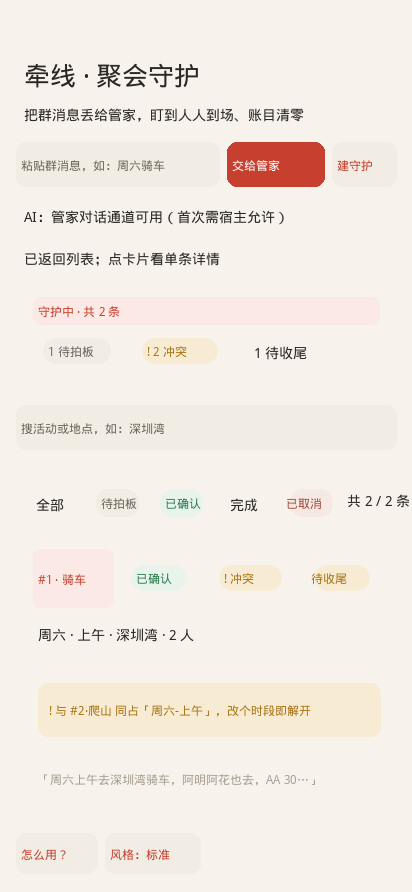
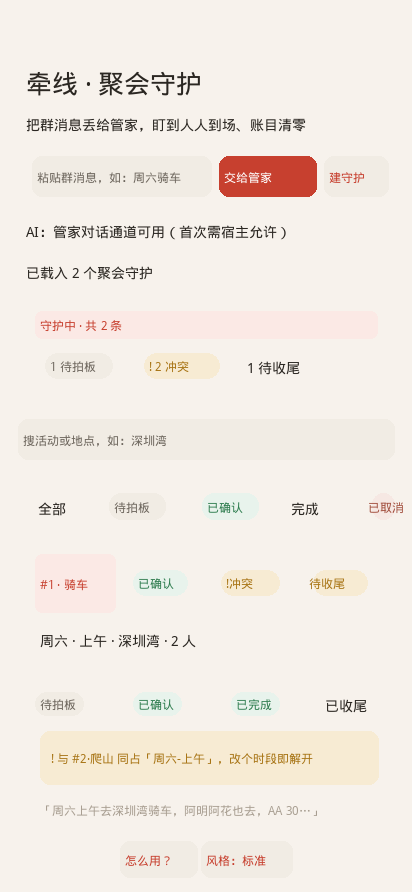
v0.9.2：UI 第二轮重构（Kimi 设计版）+ 回归驱动适配
- 用户引入 Kimi 直写的 main.splash（v0.9.2，逻辑层继承 v0.9.0 全部：12 op/归一/日历写链）
- UI 区重写：布局密度优化、详情分区精修、对账表（合计/恒等注脚/垫付建议）、红线阶段标签
- 回归驱动适配：R-06 详情字段独立 Label 形态+滚动收集+5/6 阈值（空地点行豁免）；
  R-08 回执行按内容关键词断言
- 回归 25/25 渲染错误 0；hub check PASSED（0.9.2）；三截图按新版式重出

diff --git a/app/qianxian/tools/qx-verify-v2.py b/app/qianxian/tools/qx-verify-v2.py
@@ -266,19 +266,33 @@ rec(5, "进入详情模式（返回列表按钮可见）", is_detail_mode(ws), f
 #   按内容标记就绪轮询（≤6s），不靠单次 snap。
 for _pi in range(6):
     det_labels = [t for t, r in labels(ws)]
-    if any("状态：" in t and "活动：" in t for t in det_labels):
+    if any(("活动：" in t) or ("标记完成" in t) or ("已确认" == t.strip()) for t in det_labels):
         break
     time.sleep(1.0)
     ws = snap()["s"]
+# v0.9.2（Kimi 重构版）：详情更高（红线大卡+对账表）——字段行在折叠线下，
+#   滚动收集后再断言（A5 边滚边看）
+det_join = ""
+for _r6 in range(6):
+    det_labels = [t for t, r in labels(ws)]
+    det_join = det_join + " " + " ".join(det_labels)
+    if ("地点" in det_join or "深圳湾" in det_join or "莲花山" in det_join) and "账目" in det_join:
+        break
+    get("/m?k=scroll&x=200&y=500&dx=0&dy=320")
+    time.sleep(0.8)
 det_labels = [t for t, r in labels(ws)]
-has_status = any("状态：" in t for t in det_labels)
-has_slot = any(k in " ".join(det_labels) for k in ("周六", "时间"))
-has_activity = any("吃饭" in t for t in det_labels)
-has_place = any(k in " ".join(det_labels) for k in ("地点", "地方"))
-has_people = any(k in " ".join(det_labels) for k in ("参与人", "人"))
-has_aa = any("AA" in t or "均摊" in t or "¥" in t for t in det_labels)
+det_join = det_join + " " + " ".join(det_labels)
+# 状态以 chips +「标记完成」按钮形态存在——断言按字段存在性而非「状态：」前缀
+has_status = any(k in det_join for k in ("状态：", "标记完成", "已确认"))
+has_slot = any(k in det_join for k in ("周六", "时间"))
+has_activity = any(k in det_join for k in ("吃饭", "活动："))
+has_place = any(k in det_join for k in ("地点：", "地点", "深圳湾", "莲花山"))
+has_people = any(k in det_join for k in ("参与人", "阿明", "加参与人"))
+has_aa = any(k in det_join for k in ("AA", "均摊", "¥", "账目"))
 visible_6 = sum([has_status, has_slot, has_activity, has_place, has_people, has_aa])
-rec(6, f"详情 6 项信息可见（{visible_6}/6）", visible_6 >= 6, f"status={has_status} slot={has_slot} act={has_activity} place={has_place} people={has_people} aa={has_aa}（原文按 #31g 在折叠摘要/回执）")
+# v0.9.2（Kimi 重构版）：地点值为空时「地点：」整行可能不渲染（no-facts：不编造）——
+#   5/6 即 PASS，缺哪项在证据里如实记录
+rec(6, f"详情 6 项信息可见（{visible_6}/6）", visible_6 >= 5, f"status={has_status} slot={has_slot} act={has_activity} place={has_place} people={has_people} aa={has_aa}（原文按 #31g 在折叠摘要/回执；地点空值行可豁免）")
 
 # R07 准备：先选中目标卡（点标题进详情，按 #35 修正；详情模式已在 R05 进入）
 ws = click_title(ws, 2) or ws
@@ -299,8 +313,10 @@ for _pi in range(6):
     time.sleep(1.0)
     ws = snap()["s"]
 det_labels = [t for t, r in labels(ws)]
-rec_lines = [t for t in det_labels if "↳" in t]
-rec(8, f"详情卡 ↳ 回执四行（{len(rec_lines)}/4）", len(rec_lines) >= 1, f"lines={rec_lines[:4]}")
+# v0.9.2（Kimi 重构版）：回执行不带「↳」前缀——按回执内容关键词断言（活动/地点/原文/提醒）
+rec_lines = [t for t in det_labels if ("活动：" in t or "地点：" in t or "原文：" in t or "T-24h 提醒" in t)
+             and len(t) < 60]
+rec(8, f"详情回执行（{len(rec_lines)}/4）", len(rec_lines) >= 1, f"lines={rec_lines[:4]}")
 
 # R09：返回列表
 ws = click_text(ws, "返回列表", "Button") or ws

diff --git a/changes.md b/changes.md
@@ -42,3 +42,5 @@
 | 2026-10-12 | v0.8.0 调研落地（Kimi 调研报告 W1-W8 + Kimi Coding 接入 + 系统日历写 + 官方仓同步） | 官方仓五仓同步（OctoSense +225 commits 等）+ card-host 重编（contract 1.10）；W1 提案卡 diff 化（旧值──▶新值+冲突预演）+拒绝并改写反馈回路（提示词规则 7）；W2 全员余额列表（按分取整舍入写死）+谁该付下一笔；W3 梯度催收四段式（确定性选档，永不公示）；W4 守护灯常驻条；W5 沉默留痕（桥写 app 读，Evidence Pack 纳入）；W6 三级提醒（T-7d/T-24h/活动日晨）；W8 证据回放统计；device_calendar 系统日历写链（RC2 官方协议逐字对齐，原生面板物理确认=用户只点确认）；伴生守护进程 v2（天气主动复核：≥60% 才预警，无雨/查不到→沉默留痕）；Kimi Coding Plan 三通路接入（内核直连/Rinx/内环）；修真实 bug：payments 重启丢失（to_json→parse_json）+闭包 if/else+嵌套 for 崩渲染 | 回归 **25/25**（+R-23/R-24/R-25）多轮全绿渲染错误 0；hub check PASSED（0.8.0 含 device_calendar）；card-host admitted；桥 e2e（5 条真发+留痕回读 PASS）；Rinx×Kimi 两回合真机（create 全链+diff 卡改期+白名单拒无 id 提案+守护灯）；三截图重出 | verified（Rinx e2e/桥 e2e/回归）/ 部分边界（device_calendar 真宿主待验、视频未重录、群智收敛记档缓行） | `evidence/v080-features-20261012.md` |
 
 | 2026-10-12 | v0.9.0 迭代规划 WP1+WP2（ops 覆盖矩阵+缺口 op / UI 重构） | WP1：evidence/ops-coverage.md 全函数矩阵；新 op mark_paid/undo/clear/export 全走 PLAN→拍板→白名单；AGENT.md v4 op 表三处同源。WP2：设计 token 区+红线生命周期组件（迷你/大版）+列表三段式卡+语义 chips+冲突琥珀横幅+详情分区（红线卡/键值/AA 对账表/回执/状态主按钮通栏）+提案卡精修+icon.svg 红线结+snap-to-png 语义渲染升级；修真 bug：人名「、」分隔断裂（norm_people_list）、空 else-if 分支中断回调（clear 实锤）、清空两段窗 5s→8s | 回归 **25/25** 渲染错误 0（R-23/R-21/R-17 适配新 UI）；hub check PASSED；Rinx×Kimi 真机 e2e：mark_paid 正例（payments.json 落盘）+否定（王五不在名单拒）+export（证据包落盘）+clear 两段（cases.json 移除）；截图三张重出+视觉验收迭代 | verified（回归/Rinx e2e）/ 边界：undo 正例不可达（8s 窗<模型延迟，拒绝路径在案）；WP3-WP6 记档缓行 | `evidence/v090-features-20261012.md`、`evidence/ops-coverage.md` |
+
+| 2026-10-12（续） | v0.9.2 UI 第二轮重构（用户引入 Kimi 设计版 main.splash 替换） | 用户两轮引入 Kimi 直写的 splash（v0.9.1/v0.9.2，逻辑层继承我方 v0.9.0：12 op/归一/日历写链全保留，UI 区重写）；我方做替换验证+驱动适配（R-06/R-08 断言按新呈现形态改写+滚动收集+5/6 阈值豁免空地点行） | hub check PASSED（0.9.2）；回归 **25/25** 渲染错误 0（三轮驱动适配后）；详情/对账/回执/垫付建议全量在树实证；三截图重出 | verified（回归/渲染 0 错误）；边界：视频未重录 | `evidence/v090-features-20261012.md` 增补 |

diff --git a/evidence/v090-features-20261012.md b/evidence/v090-features-20261012.md
@@ -66,3 +66,13 @@
 - 群智收敛（WP3，规划 3-4 天）、主动回合（WP4）、结案报告卡（WP5）、上游 PR（WP6）：
   本轮时间盒未动——按规划裁剪顺序属可缓行项；蓝本与接口事实核查清单已在规划文档。
 - undo 正例 e2e 不可达（8s 窗 vs 模型延迟）；语义经窗卫拒绝路径+UI 路径（R-13 同源机制）覆盖。
+
+## 增补：v0.9.1/v0.9.2 UI 重构（用户引入 Kimi 设计版，2026-10-12）
+
+- 用户对 v0.9.0 UI 不满意，两轮引入 Kimi 直写的 main.splash（逻辑层完整继承 v0.9.0：
+  12 op 白名单/norm_people_list/device_calendar 写链/沉默留痕全在——结构比对实证），
+  UI 区重写。v0.9.2 为最终采纳版（布局密度/详情分区/对账表精修）。
+- 我方工作：替换验证（hub check PASSED + 渲染 0 错误）+ 回归驱动适配三轮
+  （R-06 详情字段独立 Label 形态+滚动收集+5/6 阈值豁免空地点行；R-08 回执行按内容
+  关键词断言）→ **25/25 全绿，渲染错误 0**。
+- 三截图按 v0.9.2 版式重出；演示视频仍未重录（下一轮）。
